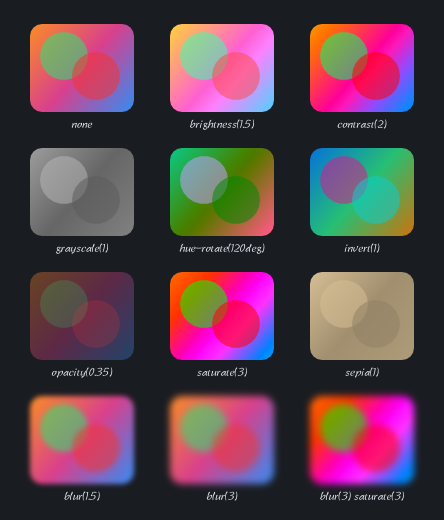
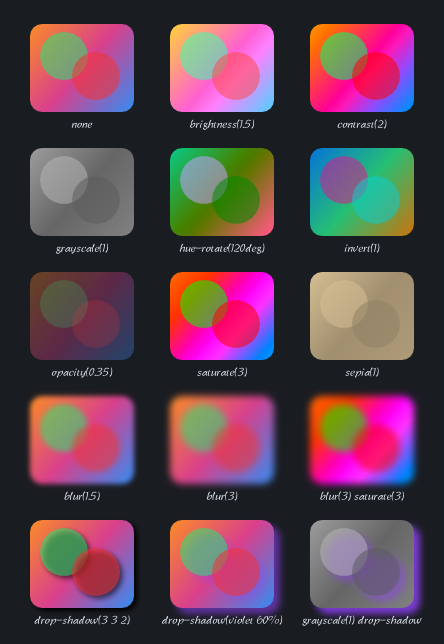
gallery: the filters scene gains a drop-shadow() row
A fifth row of the same motif: drop-shadow(3 3 2) in plain black,
drop-shadow at a translucent violet (the tint scaling both the shadow's
colour and alpha), and grayscale(1) chained before a violet drop-shadow
-- the list order made visible, a gray drawing keeping its coloured
shadow cast from the recoloured pixels' alpha.  The cell table picks up
an optional trailing drop-shadow slot beside the existing chain slot.

diff --git a/examples/gallery.c b/examples/gallery.c
@@ -1850,18 +1850,25 @@ static void shaping(void) {
 // diagonal-gradient rounded tile under two translucent discs -- through one
 // filter (top-left unfiltered for reference).  Each colour function is a
 // precompiled matrix kernel over the op's premultiplied tile; the partial
-// alpha is what makes the premultiplied forms visible.  The last row is
+// alpha is what makes the premultiplied forms visible.  The fourth row is
 // blur() -- three box passes over the same tile, the painted region grown by
 // the spread -- alone at two strengths, then chained after a colour function
 // (the list applies in call order, so saturate sees the already-soft pixels).
+// The last row is drop-shadow() -- the drawing composited over a blurred,
+// offset, tinted copy of its own alpha -- plain black, a translucent violet,
+// and chained after grayscale(1), the order making the gray drawing keep its
+// coloured shadow.
 static void filters(void) {
     struct {
         void (*add)(canvas *__single cv, float amount);
         float amt;
         void (*add2)(canvas *__single cv, float amount);  // chained second entry
         float amt2;
+        bool shadow;                  // append a drop-shadow() after add/add2
+        float sdx, sdy, sblur;        // its offset + blur
+        float sr, sg, sb, sa;         // its colour
         char const *label;
-    } const cell[12] = {
+    } const cell[15] = {
         { .label = "none" },
         { .add = canvas_add_filter_brightness, .amt = 1.5f,       .label = "brightness(1.5)" },
         { .add = canvas_add_filter_contrast,   .amt = 2.0f,       .label = "contrast(2)" },
@@ -1875,26 +1882,42 @@ static void filters(void) {
         { .add = canvas_add_filter_blur,       .amt = 3.0f,       .label = "blur(3)" },
         { .add = canvas_add_filter_blur,       .amt = 3.0f,
           .add2 = canvas_add_filter_saturate,  .amt2 = 3.0f,      .label = "blur(3) saturate(3)" },
+        { .shadow = true, .sdx = 3.0f, .sdy = 3.0f, .sblur = 2.0f,
+          .sr = 0.0f, .sg = 0.0f, .sb = 0.0f, .sa = 1.0f,
+          .label = "drop-shadow(3 3 2)" },
+        { .shadow = true, .sdx = 6.0f, .sdy = 6.0f, .sblur = 3.0f,
+          .sr = 0.55f, .sg = 0.25f, .sb = 0.95f, .sa = 0.6f,
+          .label = "drop-shadow(violet 60%)" },
+        { .add = canvas_add_filter_grayscale,  .amt = 1.0f,
+          .shadow = true, .sdx = 6.0f, .sdy = 6.0f, .sblur = 3.0f,
+          .sr = 0.55f, .sg = 0.25f, .sb = 0.95f, .sa = 0.85f,
+          .label = "grayscale(1) drop-shadow" },
     };
     float const M = 12.0f, cellW = 140.0f, cellH = 124.0f;
-    canvas *__single c = canvas_create(444, 520);
+    canvas *__single c = canvas_create(444, 644);
     if (!c) {
         return;
     }
     canvas_set_fill_rgba(c, 0.10f, 0.11f, 0.13f, 1.0f);
-    canvas_fill_rect(c, 0.0f, 0.0f, 444.0f, 520.0f);
+    canvas_fill_rect(c, 0.0f, 0.0f, 444.0f, 644.0f);
 
-    for (int i = 0; i < 12; i++) {
+    for (int i = 0; i < 15; i++) {
         int col = i % 3, row = i / 3;
         float ox = M + (float)col * cellW, oy = M + (float)row * cellH;
 
-        // This cell's filter (one function, or a two-entry chain).
+        // This cell's filter (one function, a two-entry chain, or a chain
+        // ending in drop-shadow -- always in list order).
         canvas_set_filter_none(c);
         if (cell[i].add) {
             cell[i].add(c, cell[i].amt);
         }
         if (cell[i].add2) {
             cell[i].add2(c, cell[i].amt2);
+        }
+        if (cell[i].shadow) {
+            canvas_add_filter_drop_shadow(c, cell[i].sdx, cell[i].sdy,
+                                          cell[i].sblur, cell[i].sr, cell[i].sg,
+                                          cell[i].sb, cell[i].sa);
         }
 
         // The motif, filtered: a gradient tile, then two translucent discs.